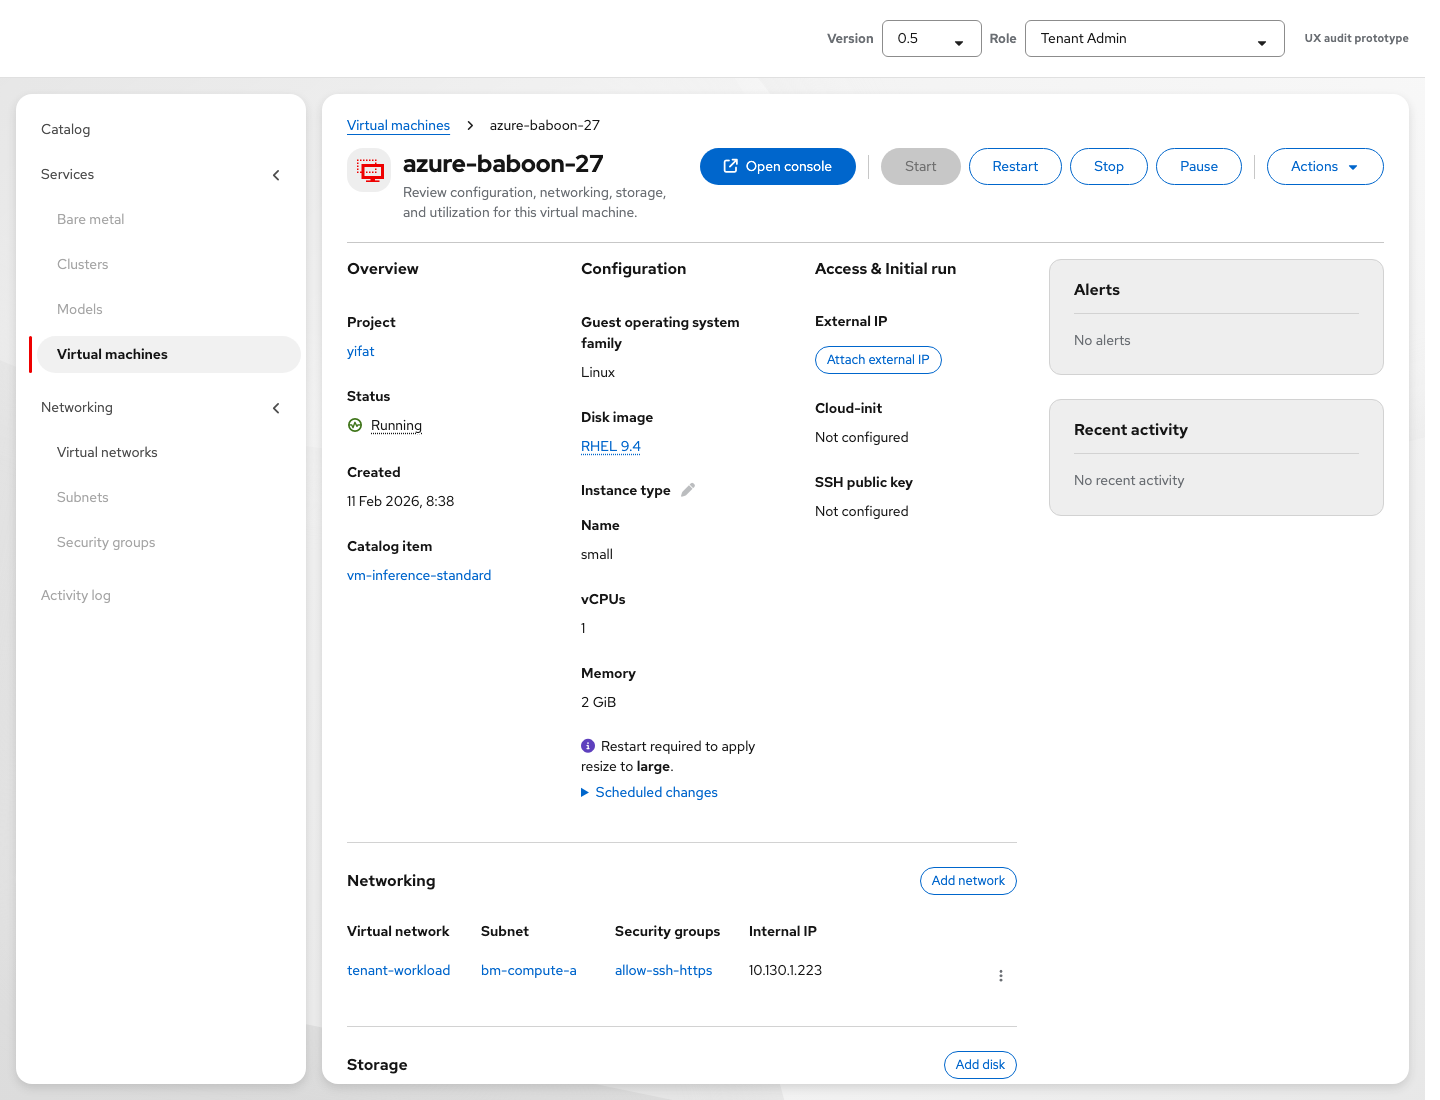
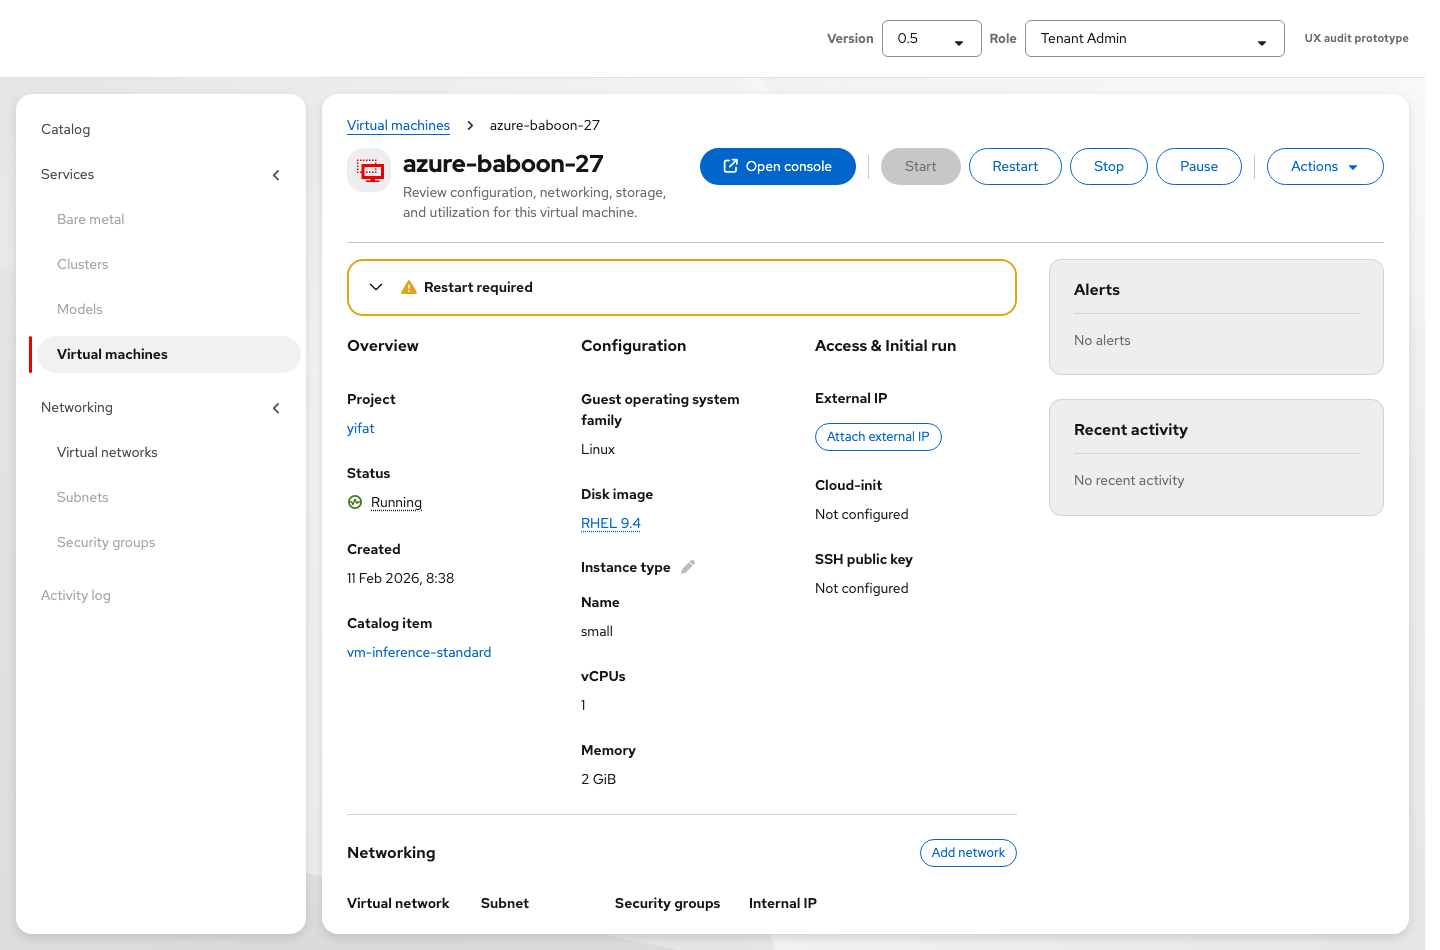
OSAC-7158: surface restart requirement above VM overview
Assisted-by: Cursor <cursoragent@cursor.com>

diff --git a/apps/app-frontend/public/vmaas-ux-prototype.html b/apps/app-frontend/public/vmaas-ux-prototype.html
@@ -9182,8 +9182,8 @@
       const rr = vm?.restartRequired;
       if (!rr || !Array.isArray(rr.changes) || !rr.changes.length) return '';
       const expanded = rr.expanded === true;
-      const title = rr.changes.some(c => c.label === 'Instance type') ? 'Restart required to apply resize' : 'Restart required';
-      const message = rr.message || 'Changes apply after the virtual machine is restarted.';
+      const title = 'Restart required';
+      const message = 'Restart this VM to apply the scheduled changes.';
       const msg = String(message).replace(/</g, '&lt;');
       const changes = rr.changes.map(c => {
         const section = String(c.section || 'Details').replace(/</g, '&lt;');
@@ -9196,7 +9196,7 @@
       }).join('');
       return `
         <div class="vm-restart-required" id="vm-resize-status">
-          <div class="pf-v6-c-alert pf-m-inline pf-m-info pf-m-expandable ${expanded ? 'pf-m-expanded' : ''}" role="status">
+          <div class="pf-v6-c-alert pf-m-inline pf-m-warning pf-m-expandable ${expanded ? 'pf-m-expanded' : ''}" role="status">
             <div class="pf-v6-c-alert__toggle">
               <button class="pf-v6-c-button pf-m-plain" type="button" data-vm-resize-alert-toggle
                 aria-label="${title} details" aria-expanded="${expanded}" aria-controls="vm-resize-status-body">
@@ -9207,7 +9207,7 @@
                 </span></span>
               </button>
             </div>
-            <div class="pf-v6-c-alert__icon"><i class="fa-solid fa-circle-info" aria-hidden="true"></i></div>
+            <div class="pf-v6-c-alert__icon"><i class="fa-solid fa-triangle-exclamation" aria-hidden="true"></i></div>
             <h4 class="pf-v6-c-alert__title">${title}</h4>
             <div class="pf-v6-c-alert__description" id="vm-resize-status-body" ${expanded ? '' : 'hidden'}>
               <div class="vm-restart-required__body">
@@ -9268,13 +9268,7 @@
           ? `<span class="vm-config-operation__retry">Retry attempt: ${Number(vm.resizeProgress.retryAttempt)}</span>` : '';
         return `<div class="vm-config-inline" role="status"><div class="vm-config-inline__status"><i class="fa-solid fa-circle-info" aria-hidden="true"></i>Changing instance type to <strong>${target}</strong>.</div>${retry}</div>`;
       }
-      const changes = vm.restartRequired?.changes;
-      if (!Array.isArray(changes) || !changes.length) return '';
-      const items = changes.map(change => `<li>${escAttr(change.label || 'Change')}: ${escAttr(change.from || '—')} &rarr; ${escAttr(change.to || '—')}</li>`).join('');
-      return `<div class="vm-config-inline" role="status">
-        <div class="vm-config-inline__status"><i class="fa-solid fa-circle-info" aria-hidden="true"></i>Restart required to apply resize to <strong>${target}</strong>.</div>
-        <details class="vm-config-inline__details"><summary>Scheduled changes</summary><ul>${items}</ul></details>
-      </div>`;
+      return '';
     }
 
     function editComputeResizeAlertHtml(path, selectionChanged) {
@@ -17240,6 +17234,7 @@
           <div class="vm-overview-v2__main">
             ${operationAlertsHtml}
             ${provisioningFailureHtml}
+            ${vmResizeStatusAlertHtml(v)}
             <section class="vm-overview-v2__details" aria-label="Details">
               <div class="vm-overview-v2__detail-cols">
                 <section class="ethan-detail-col" aria-labelledby="vm-overview-title">

diff --git a/docs/vm-overview-ux-handoff.md b/docs/vm-overview-ux-handoff.md
@@ -8,7 +8,7 @@ VM Overview shows the active instance type, CPU, and memory. Editing the instanc
 
 ## Version 0.5 — configuration operations (OSAC-7158)
 
-The Overview **Status** row shows the VM power state only. Keep active instance type, CPU, memory, and attached external IP as the main values. Keep the instance type name, CPU, memory, and GPU together; show scheduled or applying resize status immediately after those specs. Attachment progress appears beside External IP. Name the requested type or address in context. A known later attempt appears on its own subdued line. The Attach external IP button remains visible but disabled while attachment runs. Reserve a top-of-page danger alert for failed operations; when two operations fail, list both in one alert. Put the failure reason in that alert and a short **Resize failed** cue with **Resize again** beside the instance type. Say **No automatic retry is scheduled** when that is known, so the manual action remains clear. After an attachment failure, keep the attempted address out of the attached-IP value and offer **Attach external IP** to start another selection.
+The Overview **Status** row shows the VM power state only. Keep active instance type, CPU, memory, and attached external IP as the main values. Keep the instance type name, CPU, memory, and GPU together; show applying resize status immediately after those specs. Attachment progress appears beside External IP. Name the requested type or address in context. A known later attempt appears on its own subdued line. The Attach external IP button remains visible but disabled while attachment runs. Use a top-of-page danger alert for failed operations; when two operations fail, list both in one alert. Put the failure reason in that alert and a short **Resize failed** cue with **Resize again** beside the instance type. Say **No automatic retry is scheduled** when that is known, so the manual action remains clear. After an attachment failure, keep the attempted address out of the attached-IP value and offer **Attach external IP** to start another selection.
 
 ![Version 0.5 progress beside instance type and External IP](screenshots/latest-ux/vm-config-inline-progress-0.5.png)
 
@@ -20,9 +20,11 @@ The [ubuntu-copper-ibis-31 example](https://osac-project.github.io/osac-ux/vmaas
 
 ![Version 0.5 mixed-operation status tooltip](screenshots/latest-ux/vm-config-status-tooltip-mixed-0.5.png)
 
-When a resize requires a restart, show “Restart required to apply resize” beside the instance type. **Scheduled changes** is collapsed by default and expands to show current and requested values. In VM lists and cards, use icon-and-text statuses, rather than pill labels, for both power state and configuration state: **Changes pending**, **Changes in progress**, or **Changes need attention**. The configuration status tooltip names each relevant operation and target, including external-IP attachment. Remove it once no work is outstanding.
+When a resize requires a restart, show a **Restart required** warning above Overview. It is collapsed by default; expanding it explains the required action and shows the current and requested instance type, vCPUs, and memory. Keep the current resource values in Configuration without repeating the warning there. This actionable warning is the exception to failure-only top alerts. In VM lists and cards, use icon-and-text statuses, rather than pill labels, for both power state and configuration state: **Changes pending**, **Changes in progress**, or **Changes need attention**. The configuration status tooltip names each relevant operation and target, including external-IP attachment. Remove it once no work is outstanding.
 
-![Version 0.5 restart requirement beside Instance type](screenshots/latest-ux/vm-config-restart-0.5.png)
+![Version 0.5 collapsed top restart warning](screenshots/latest-ux/vm-config-restart-0.5.png)
+
+![Version 0.5 expanded top restart warning](screenshots/latest-ux/vm-config-restart-expanded-0.5.png)
 
 The VM list uses compact PatternFly pagination in card and table views: an item-range dropdown plus Previous and Next above and below the results.
 

diff --git a/docs/osac-4281-vm-resize-handoff.md b/docs/osac-4281-vm-resize-handoff.md
@@ -25,7 +25,7 @@ Show Deprecated instance types as selectable options with a **Deprecated** label
 
 ## After Save
 
-A success toast confirms the saved request. For a Running or Paused VM that requires restart, show **Restart required to apply resize** beside Instance type in version 0.5. Keep the VM's **active** instance type, vCPUs, and memory as the main configuration values, including the CPU and memory totals in Utilization. **Scheduled changes** is collapsed by default; expanding shows current → requested values. The 0.4 screenshots below retain the earlier top notification for historical comparison.
+A success toast confirms the saved request. For a Running or Paused VM that requires restart, show a **Restart required** warning at the top of VM Overview in version 0.5. It is collapsed by default; expanding it explains that the VM must restart and shows the current → requested instance type, vCPUs, and memory. Do not repeat the restart message beside Instance type. Keep the VM's **active** instance type, vCPUs, and memory as the main configuration values, including the CPU and memory totals in Utilization. The 0.4 screenshots below retain the earlier layout for historical comparison.
 
 On the VM list, retain the normal power status (for example, Running). In 0.5, show one icon-and-text **Changes pending** status in the Status column while restart is required; its tooltip names the resize target and explains that a restart is needed. Cards show the same status near the power status. A Stopped VM's new size applies on its next start. The 0.4 screenshots below show the earlier **Resize scheduled** label beside the name.
 
@@ -60,7 +60,15 @@ The API must expose or allow derivation of both active and requested configurati
 ![Current Obsolete type remains visible but cannot be saved unchanged](screenshots/instance-type-lifecycle/legacy-obsolete-current.png)
 
 
-**Collapsed restart notice.** The title remains visible until the VM restarts.
+**Version 0.5 collapsed restart warning.** The title remains visible near the top until the VM restarts.
+
+![Version 0.5 collapsed restart warning](screenshots/latest-ux/vm-config-restart-0.5.png)
+
+**Version 0.5 expanded restart warning.** The requested values are available on demand.
+
+![Version 0.5 expanded restart warning](screenshots/latest-ux/vm-config-restart-expanded-0.5.png)
+
+**Version 0.4 collapsed restart notice.** Earlier design for comparison.
 
 ![Collapsed restart-required notification](screenshots/vm-resize/restart-required-collapsed-current.jpg)
 
